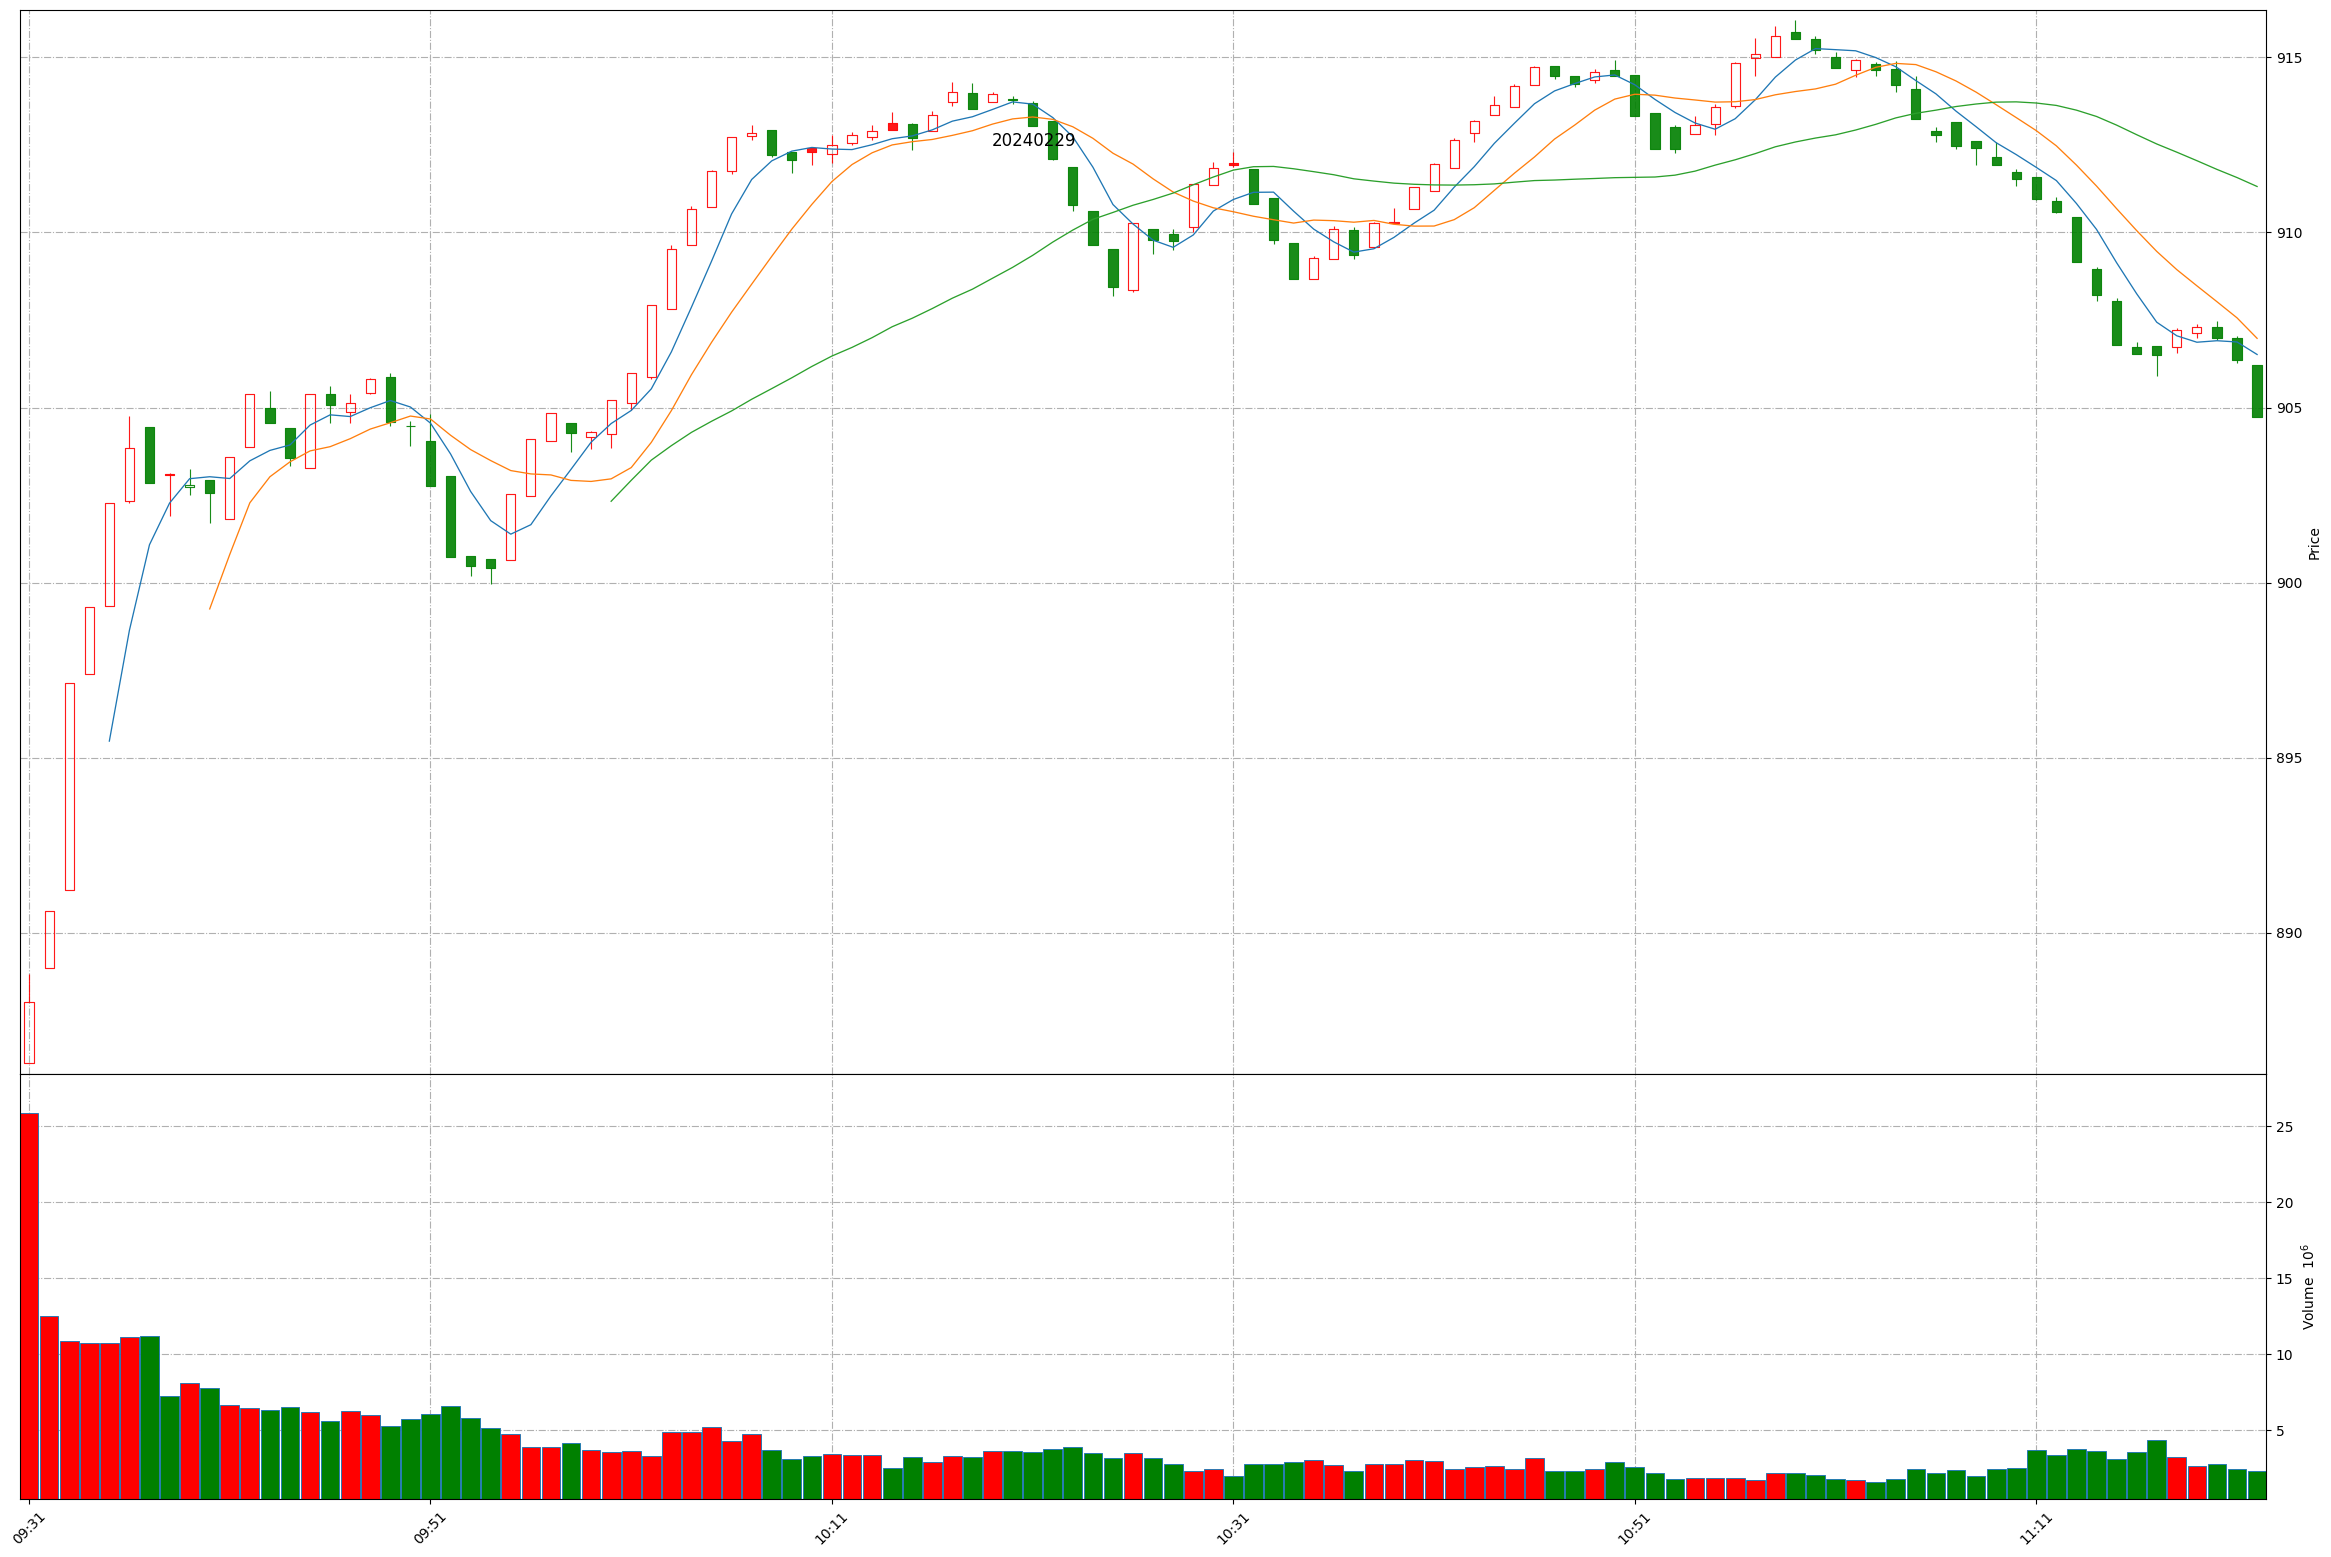
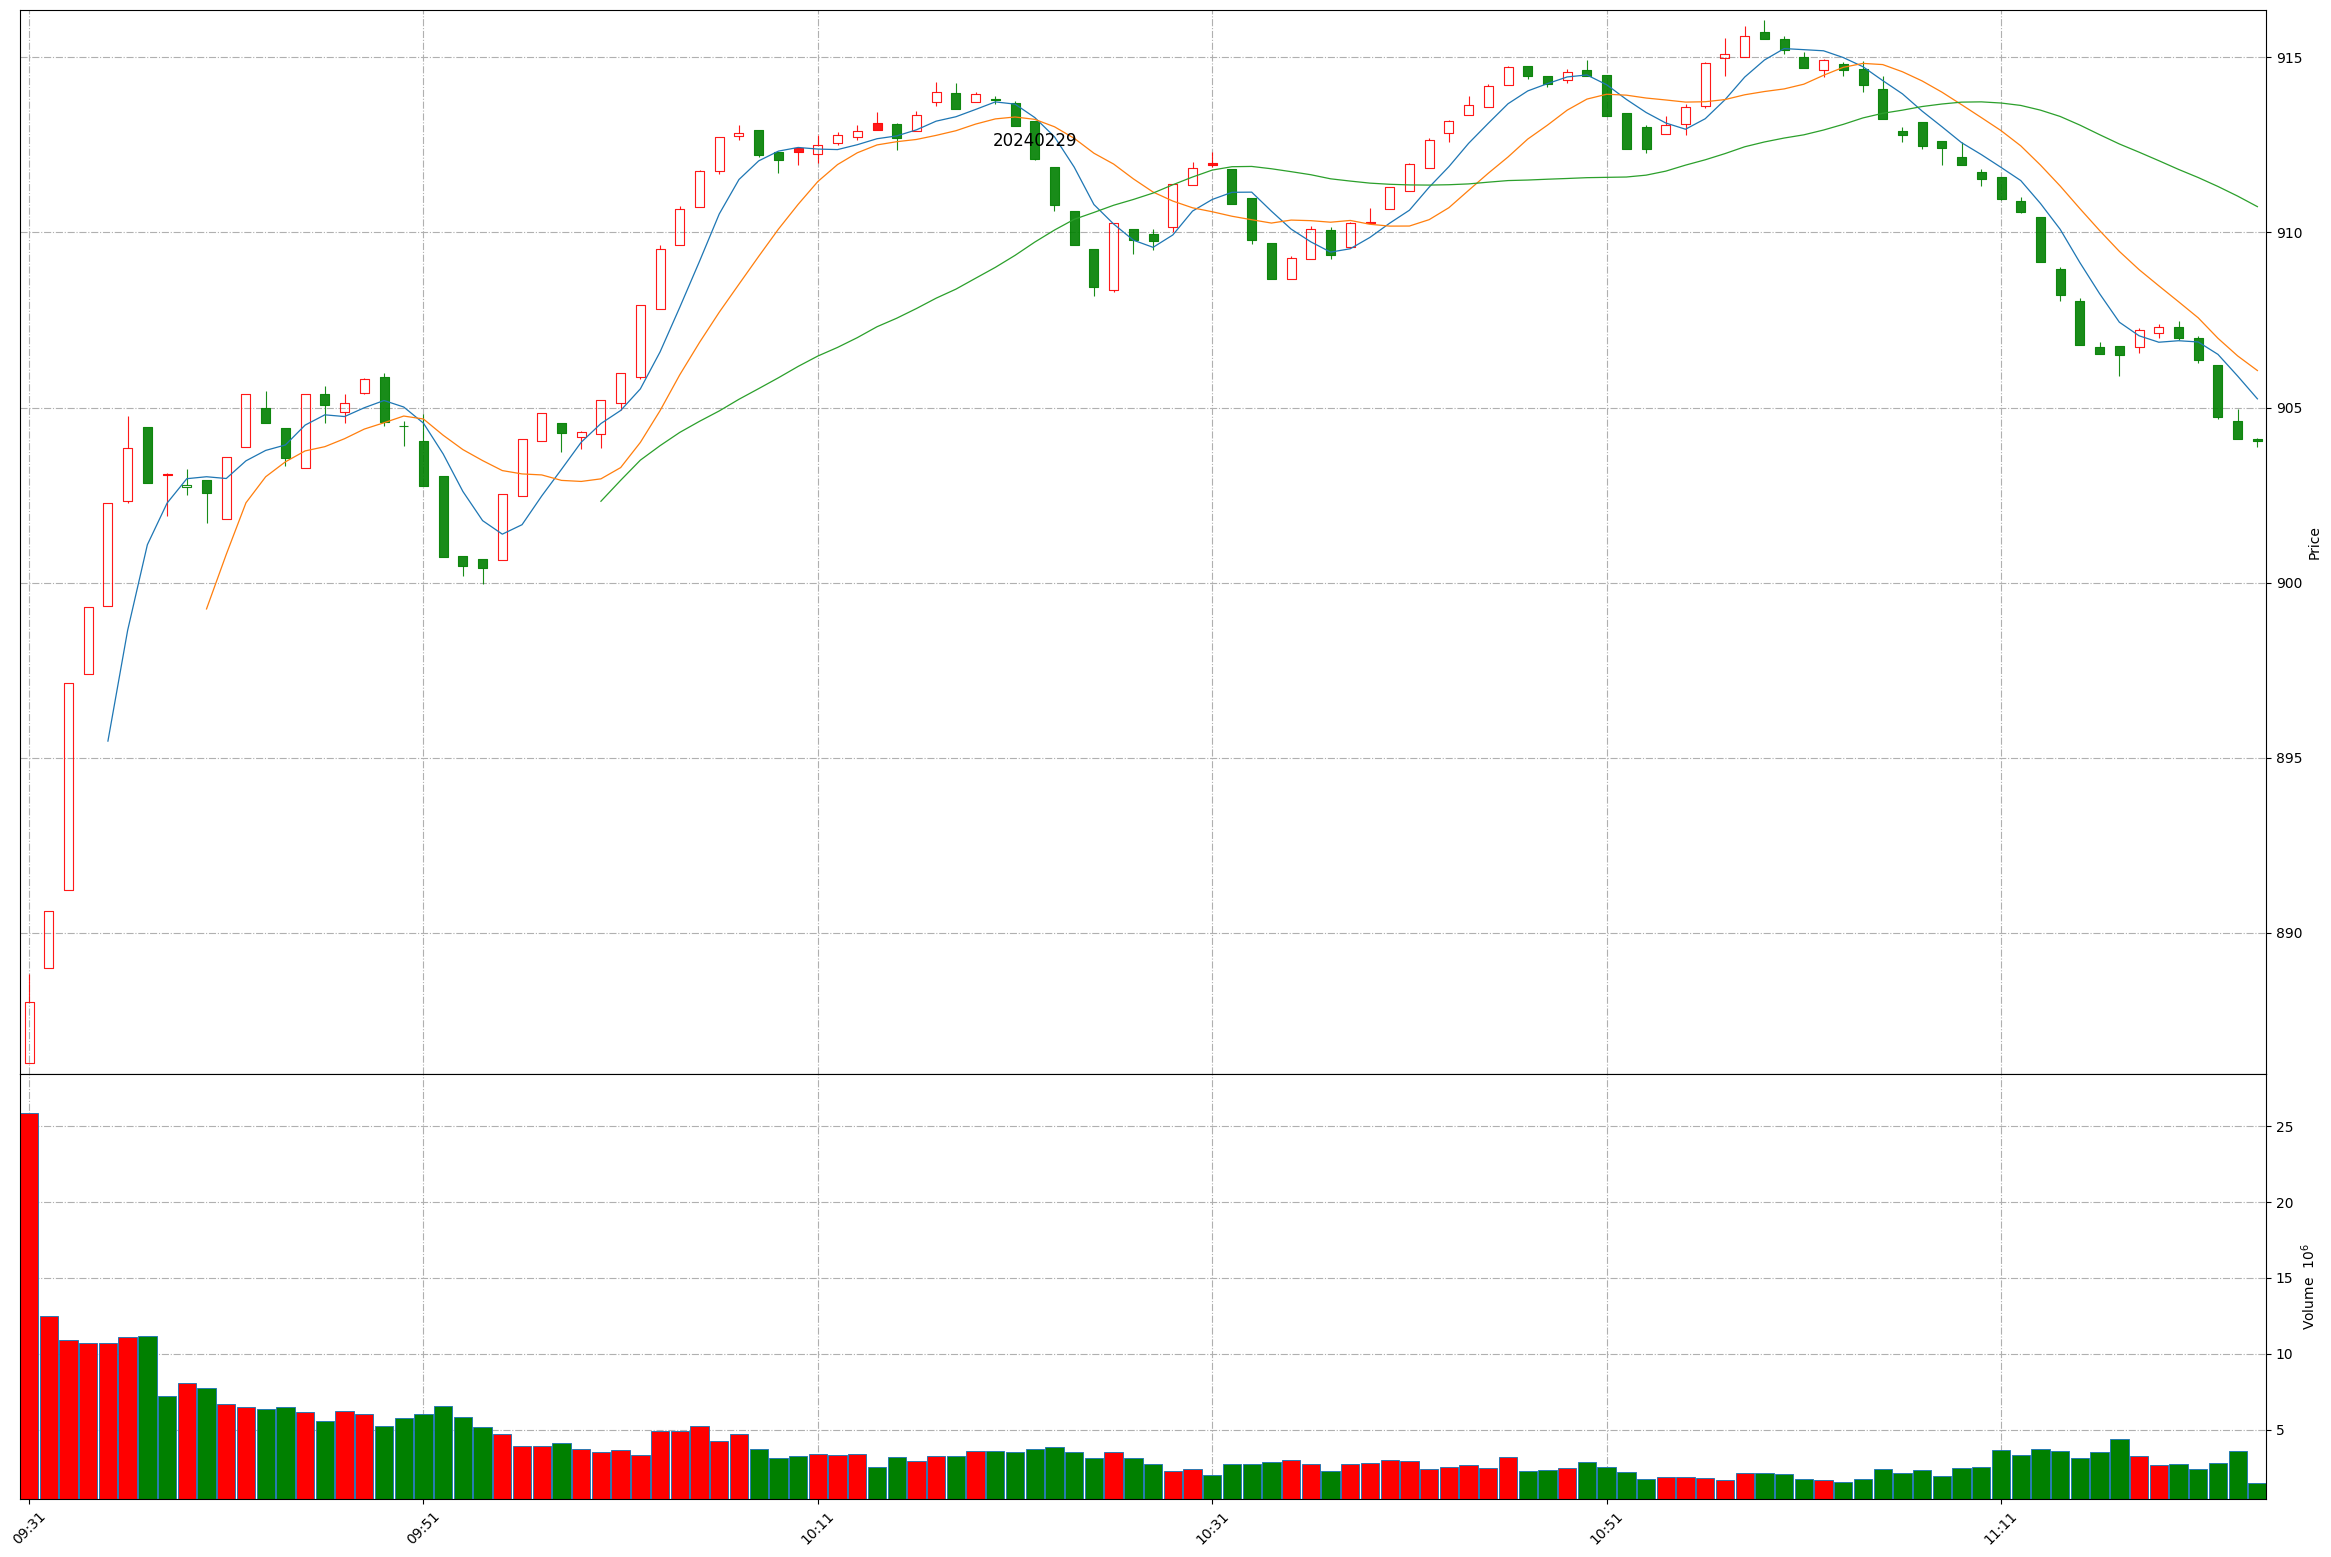
Github action update at 2024-02-29 11:23:29.

diff --git a/README.md b/README.md
@@ -1,11 +1,11 @@
 
 # Daily-A-share-market-quotes 每日 A 股指数（5min 更新）- 20240229
 
-### 上证指数 20240229 11:22
+### 上证指数 20240229 11:23
 ![](./fig/2024/2/20240229-sh000001.png)
 
-### 深证成指 20240229 11:22
+### 深证成指 20240229 11:23
 ![](./fig/2024/2/20240229-sz399001.png)
 
-### 北证50 20240229 11:22
+### 北证50 20240229 11:23
 ![](./fig/2024/2/20240229-bj899050.png)
